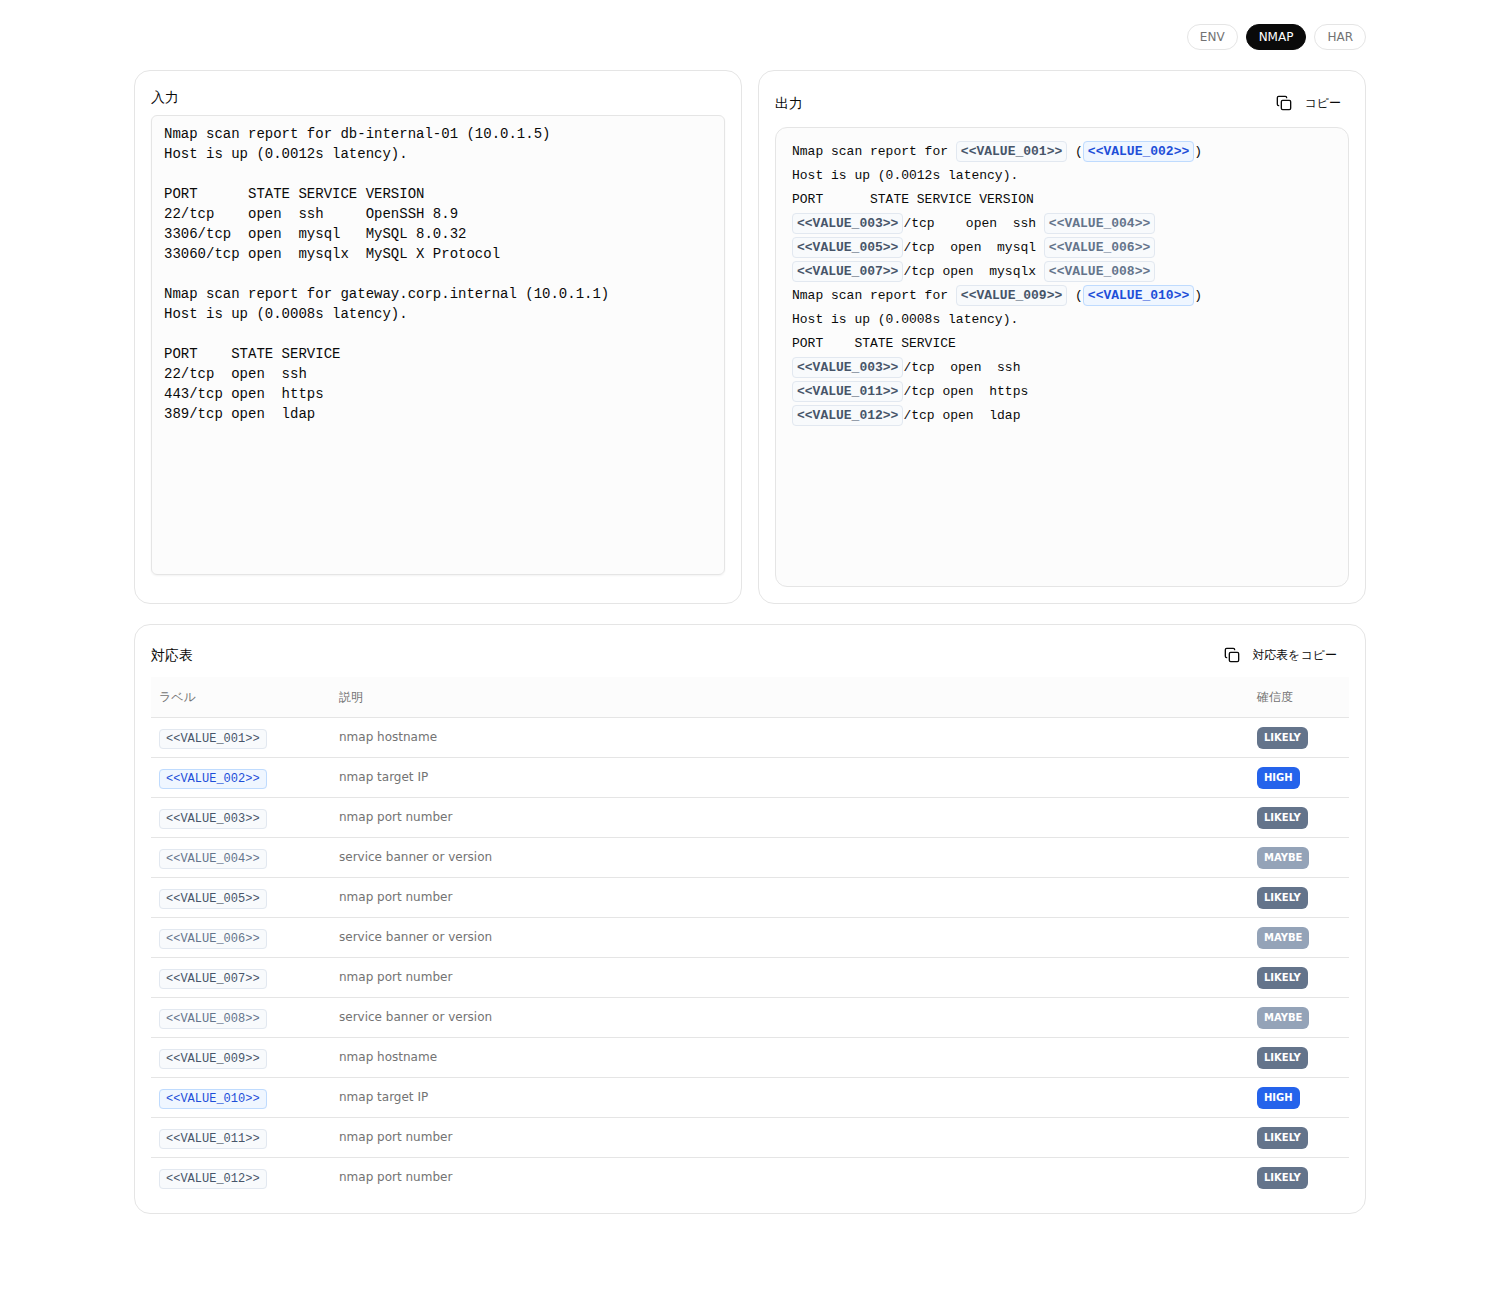
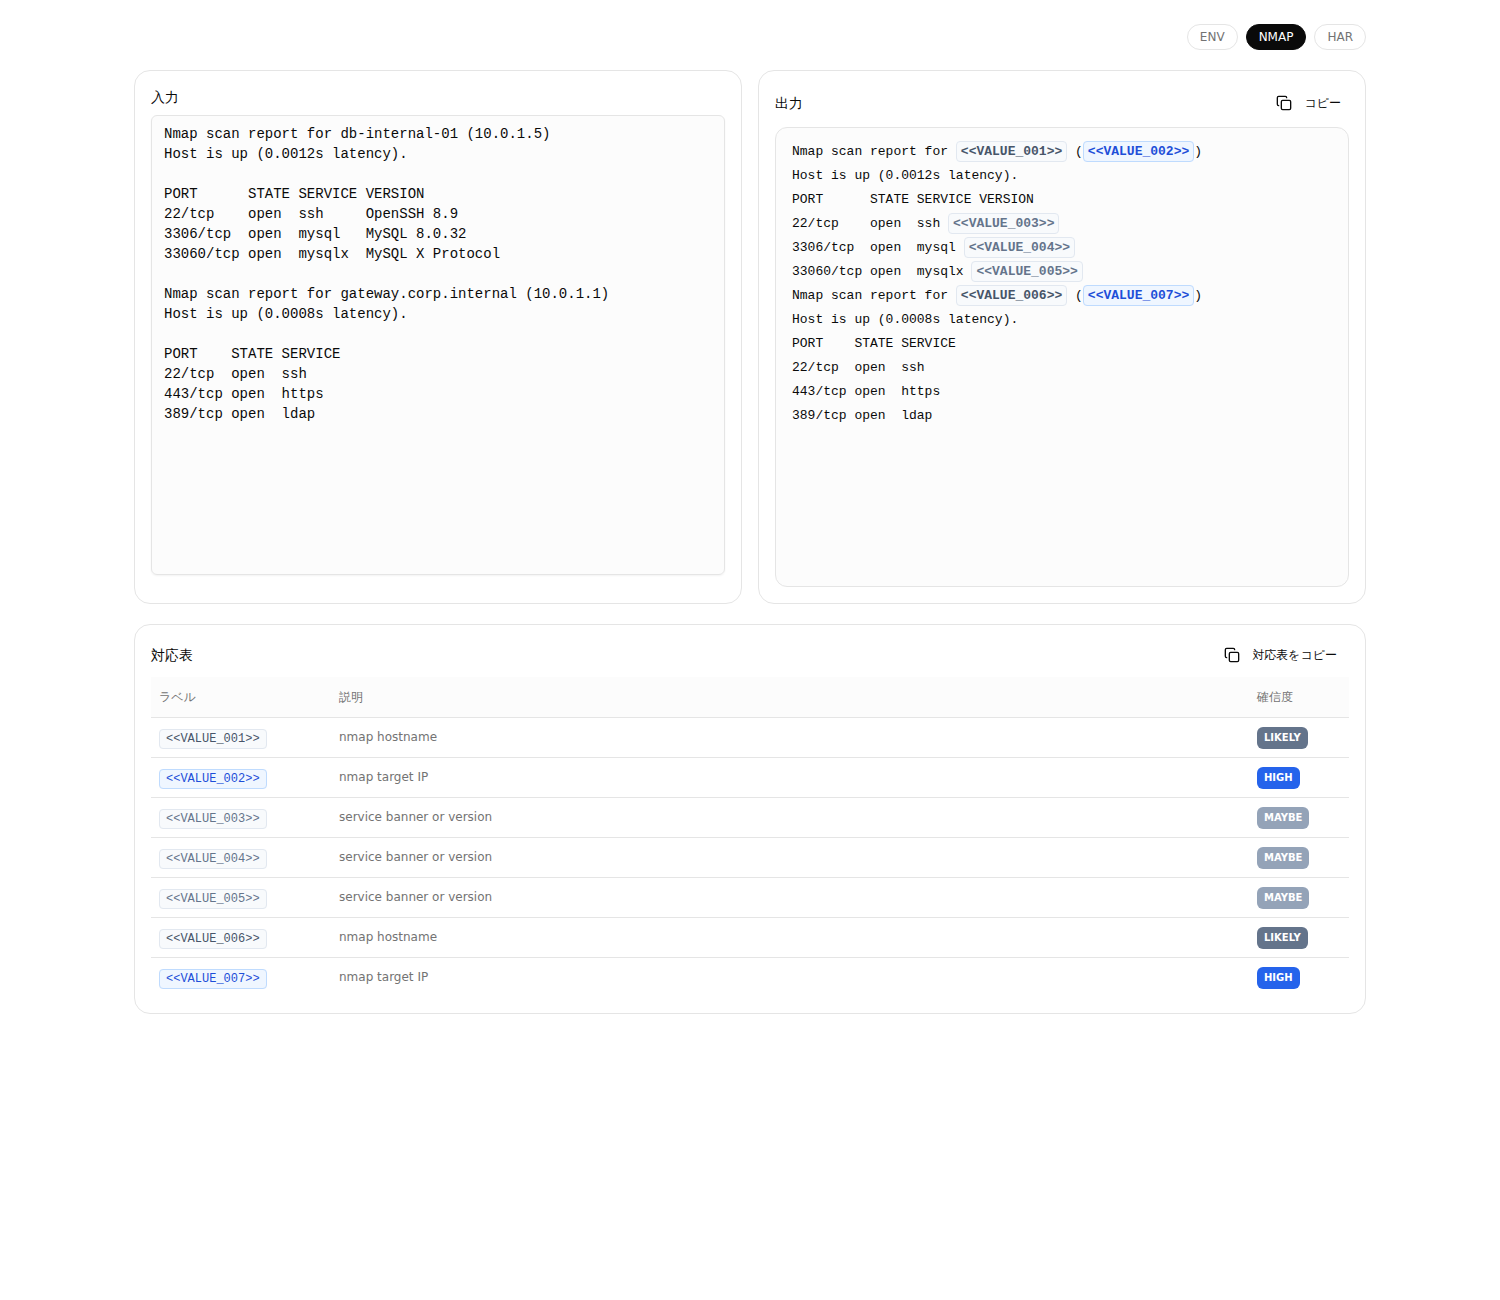
Keep port numbers and service names visible in nmap output
Only mask version/banner info and IPs. Port numbers and service
names (http, ssh, etc.) are essential for security analysis.

diff --git a/src/lib/pentect/index.ts b/src/lib/pentect/index.ts
@@ -589,7 +589,6 @@ function maskNmap(input: string, options: MaskOptions): MaskResult {
         services.set(service, (services.get(service) ?? 0) + 1);
       }
 
-      const portLabel = book.assignValue(port, "LIKELY", "nmap port number");
       let suffix = rest;
       if (rest.trim()) {
         const versionLabel = book.assignValue(
@@ -600,7 +599,7 @@ function maskNmap(input: string, options: MaskOptions): MaskResult {
         suffix = ` ${versionLabel}`;
       }
 
-      return `${portLine[1]}${portLabel}/${portLine[3]}${portLine[4]}${state}${portLine[6]}${service}${suffix}`;
+      return `${portLine[1]}${port}/${portLine[3]}${portLine[4]}${state}${portLine[6]}${service}${suffix}`;
     }
 
     return line;
